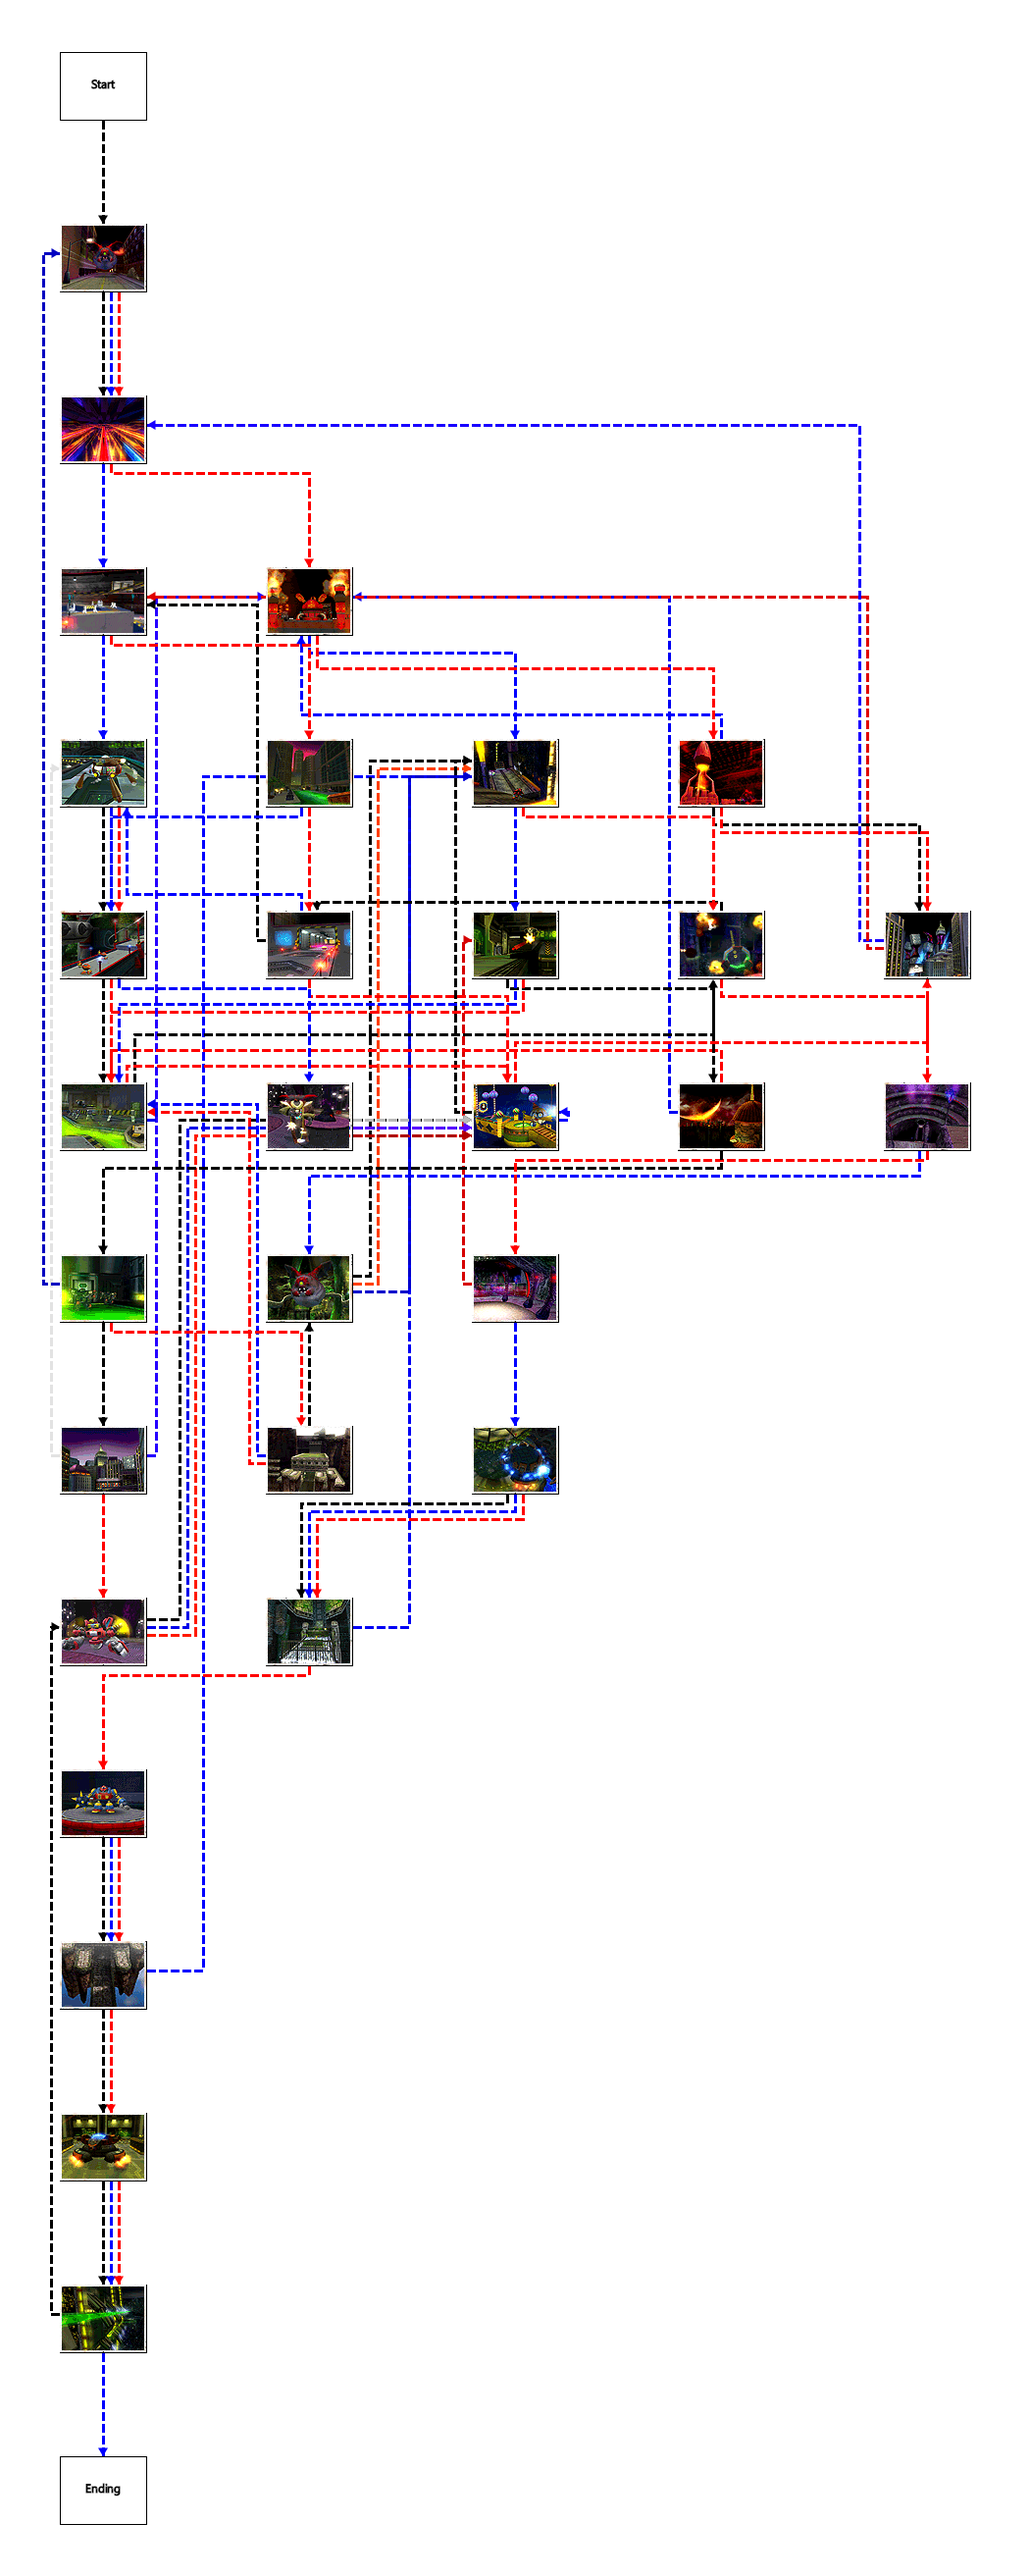
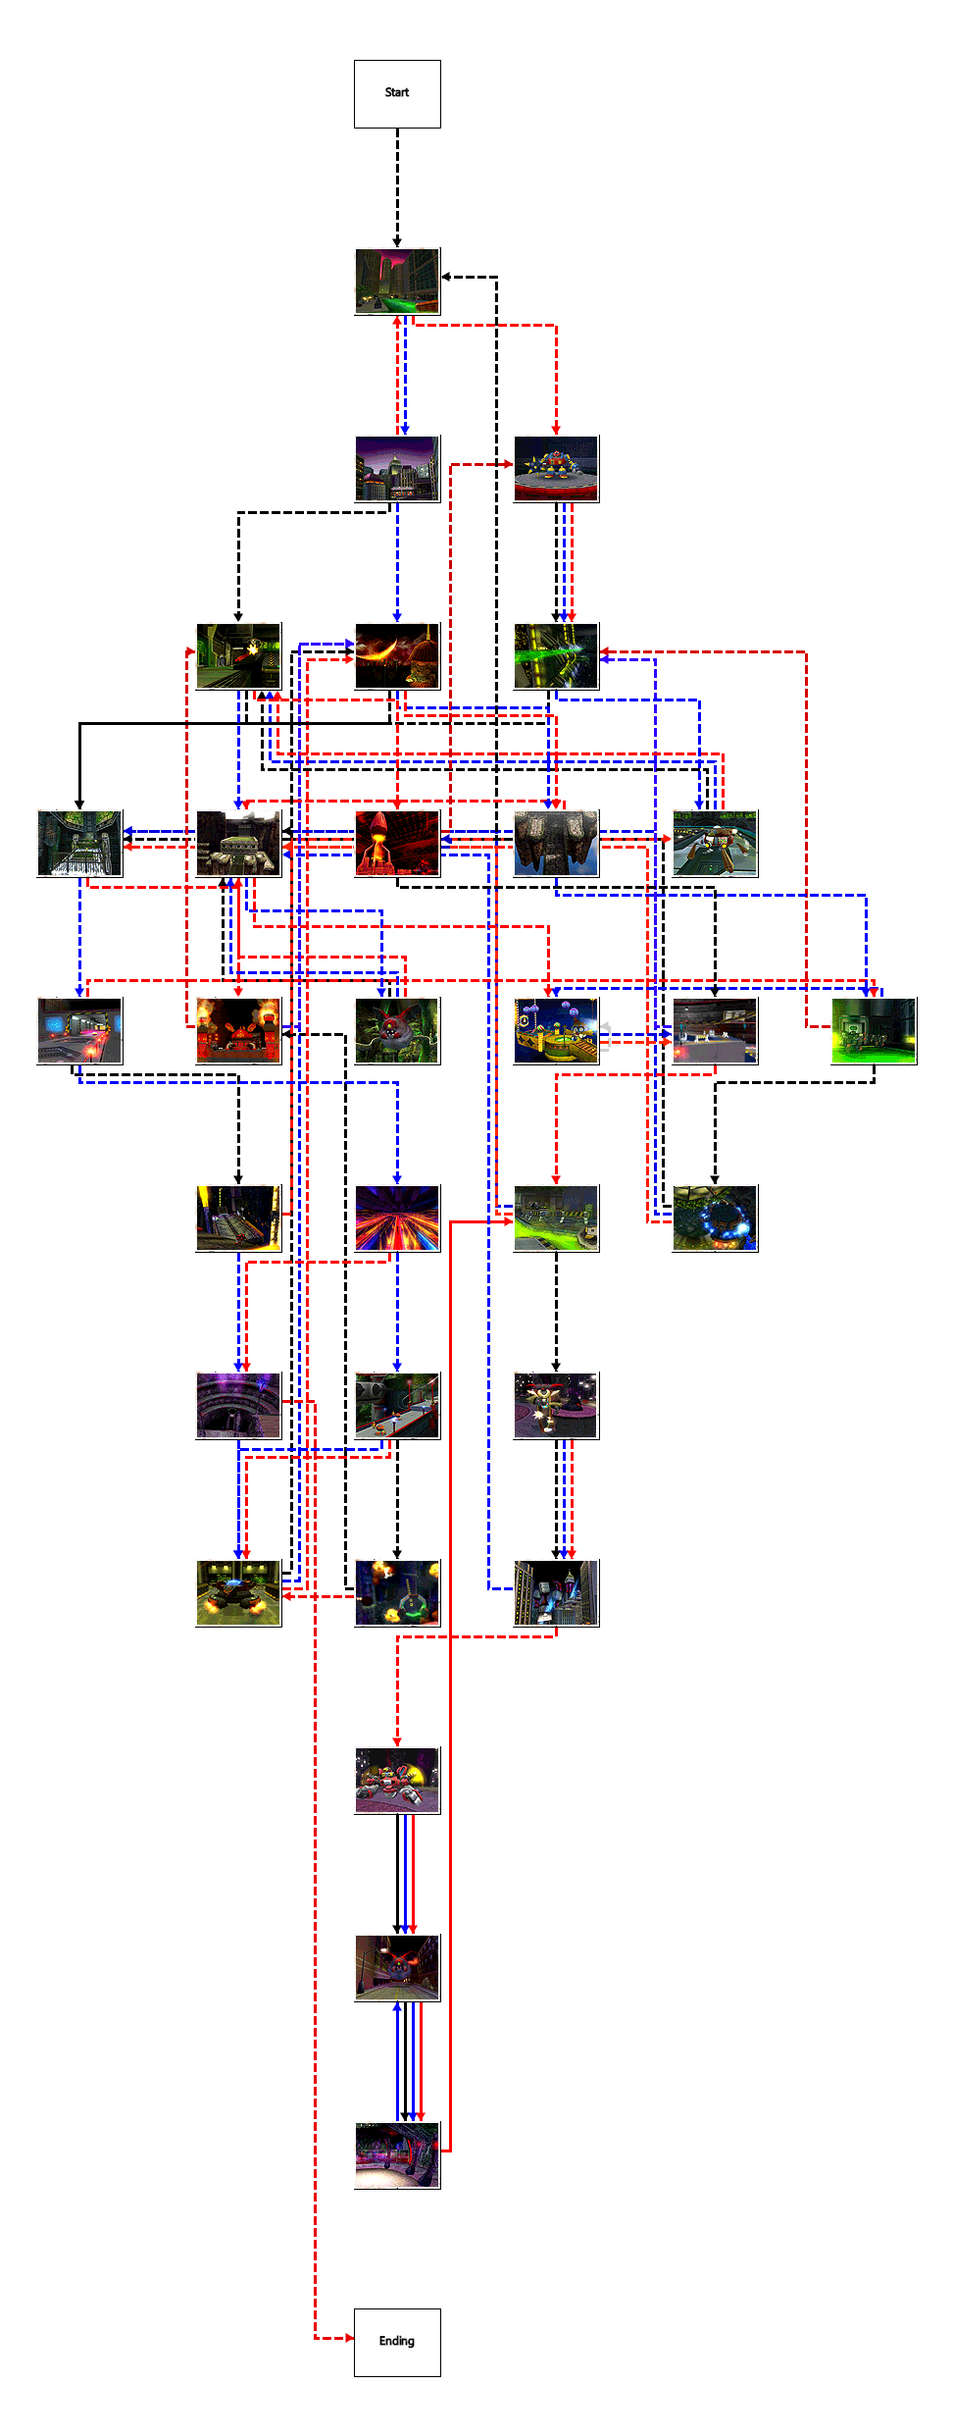
Horizontally centering charts for branching-type modes.

diff --git a/ShadowRando/Views/MainView.axaml.cs b/ShadowRando/Views/MainView.axaml.cs
@@ -3121,28 +3121,35 @@ public partial class MainView : UserControl
 				break;
 			case LevelOrderMode.BranchingPaths: // branching paths
 				{
-					int row = 0;
-					int col = 0;
 					int nextrow = stageids[0];
+					List<List<int>> depthstages = [[(int)Levels.Ending + 1]];
+					List<int> currow = [];
 					for (int i = 0; i < stagecount; i++)
 					{
 						if (stageids[i] == nextrow)
 						{
-							++row;
-							col = 0;
+							currow = [];
+							depthstages.Add(currow);
 							nextrow = stages[stageids[i]].Neutral;
 						}
-						levels[stageids[i]] = new ChartNode(col++, row);
-						gridmaxh = Math.Max(col, gridmaxh);
+						currow.Add(stageids[i]);
 					}
-					levels[(int)Levels.Ending] = new ChartNode(0, ++row);
-					gridmaxv = row + 1;
-					levels[(int)Levels.Ending + 1] = new ChartNode(0, 0);
+					depthstages.Add([(int)Levels.Ending]);
+					gridmaxh = depthstages.Max(a => a.Count);
+					gridmaxv = depthstages.Count;
+					int row = 0;
+					foreach (var ds in depthstages)
+					{
+						int col = (gridmaxh - ds.Count) / 2;
+						foreach (var id in ds)
+							levels[id] = new ChartNode(col++, row);
+						++row;
+					}
 				}
 				break;
 			case LevelOrderMode.ReverseBranching: // reverse branching
 				{
-					List<List<int>> depthstages = new List<List<int>>() { new List<int>() { (int)Levels.Ending } };
+					List<List<int>> depthstages = [[(int)Levels.Ending]];
 					List<Stage> stages2 = new List<Stage>(stageids.Take(stagecount).Select(a => stages[a]));
 					while (stages2.Count > 0)
 					{
@@ -3155,14 +3162,12 @@ public partial class MainView : UserControl
 					gridmaxh = depthstages.Max(a => a.Count);
 					gridmaxv = depthstages.Count;
 					int row = 0;
-					int col = 0;
 					foreach (var ds in depthstages)
 					{
+						int col = (gridmaxh - ds.Count) / 2;
 						foreach (var id in ds)
 							levels[id] = new ChartNode(col++, row);
-						gridmaxh = Math.Max(col, gridmaxh);
 						++row;
-						col = 0;
 					}
 				}
 				break;
@@ -3207,19 +3212,19 @@ public partial class MainView : UserControl
 				break;
 			case LevelOrderMode.SafeWild: // safe wild
 				{
-					int row = 0;
-					int col = 0;
 					int? nextrow = stageids[0];
 					SortedSet<int> visited = [stageids[0]];
+					List<List<int>> depthstages = [[(int)Levels.Ending + 1]];
+					List<int> currow = [];
 					for (int i = 0; i < stagecount; i++)
 					{
 						if (stageids[i] == nextrow)
 						{
-							++row;
-							col = 0;
+							currow = [];
+							depthstages.Add(currow);
 							nextrow = null;
 						}
-							var cnt = stages[stageids[i]].CountExits();
+						var cnt = stages[stageids[i]].CountExits();
 						for (int j = 0; j < cnt; j++)
 						{
 							var stg = stages[stageids[i]].GetExit(j);
@@ -3227,12 +3232,19 @@ public partial class MainView : UserControl
 								nextrow = stg;
 							visited.Add(stg);
 						}
-						levels[stageids[i]] = new ChartNode(col++, row);
-						gridmaxh = Math.Max(col, gridmaxh);
+						currow.Add(stageids[i]);
 					}
-					levels[(int)Levels.Ending] = new ChartNode(0, ++row);
-					gridmaxv = row + 1;
-					levels[(int)Levels.Ending + 1] = new ChartNode(0, 0);
+					depthstages.Add([(int)Levels.Ending]);
+					gridmaxh = depthstages.Max(a => a.Count);
+					gridmaxv = depthstages.Count;
+					int row = 0;
+					foreach (var ds in depthstages)
+					{
+						int col = (gridmaxh - ds.Count) / 2;
+						foreach (var id in ds)
+							levels[id] = new ChartNode(col++, row);
+						++row;
+					}
 				}
 				break;
 		}
